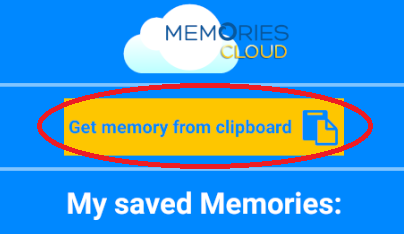
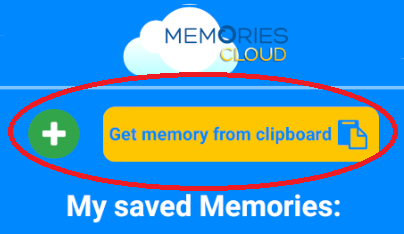
Style Fixes

diff --git a/src/components/Share.js b/src/components/Share.js
@@ -11,7 +11,8 @@ import {
     Image,
     Linking,
     ActivityIndicator,
-    NetInfo
+    NetInfo,
+    Keyboard
 } from 'react-native'
 
 import * as firebase from 'firebase'
@@ -132,7 +133,7 @@ class NewMemory extends Component {
                             }
                             
                             this.state.value ? FirebaseHelpers.setMemory(this.state.uid, memory) : null              
-                        
+                            Keyboard.dismiss()
                             ShareExtension.close()                        
                         
                         } catch (error){
@@ -183,21 +184,17 @@ class NewMemory extends Component {
                         maxLength = {MAX_TITLE_LENGTH}
                     />
 
-                    <View style={styles.memoryTextContainer}>
-                        <ScrollView horizontal>
-                            <TextInput 
-                                editable = {true} 
-                                selectionColor="#449DEF"
-                                underlineColorAndroid='transparent'
-                                placeholderTextColor="grey"
-                                placeholder = "Memory"
-                                style={[styles.memoryText, { width: this.state.width - 30}]}
-                                value = {this.state.value}
-                                onChangeText = {(value) => this.setState({value})}
-                                maxLength = {MAX_MEMORY_LENGTH}
-                            />
-                        </ScrollView>  
-                    </View>
+                    <TextInput 
+                        editable = {true} 
+                        selectionColor="#449DEF"
+                        underlineColorAndroid='transparent'
+                        placeholderTextColor="grey"
+                        placeholder = "Memory"
+                        style={[styles.memoryTextContainer, { width: this.state.width - 20}]}
+                        value = {this.state.value}
+                        onChangeText = {(value) => this.setState({value})}
+                        maxLength = {MAX_MEMORY_LENGTH}
+                    />
 
                     <TouchableHighlight
                         onPress={() => this.save()}
@@ -224,7 +221,7 @@ class NewMemory extends Component {
                     
                     <View style={styles.logoContainer}>
                         <Image style={styles.logo} source={require('../images/logo.png')}/>
-                        <Text style={styles.text}>You need a loged account in Memories Cloud to save your data, login or register now free!</Text>
+                        <Text style={styles.text}>You need a loged account in Memories Cloud to save your data, login or register now free.</Text>
                     </View>    
 
                     <View style={styles.buttonContainer}>
@@ -288,14 +285,12 @@ const styles = StyleSheet.create({
         fontWeight: 'bold'
     },
     memoryTextContainer: {
+        color: '#0088ff',
         borderWidth: 1,
         borderColor: 'white',
         borderRadius: 10,
         backgroundColor: 'white',
         marginBottom: 10
-    },
-    memoryText: {
-        color: '#0088ff'
     },
     memoryTitleText: {
         color: 'white',

diff --git a/src/components/NewMemory.js b/src/components/NewMemory.js
@@ -11,7 +11,8 @@ import {
     Image,
     Linking,
     ActivityIndicator,
-    NetInfo
+    NetInfo,
+    Keyboard
 } from 'react-native'
 
 import * as firebase from 'firebase'
@@ -98,7 +99,7 @@ class NewMemory extends Component {
                             }
 
                             this.state.value ? FirebaseHelpers.setMemory(this.state.uid, memory) : null                
-                            
+                            Keyboard.dismiss()
                             this.props.navigation.navigate("Home")  
 
                         } else {
@@ -140,22 +141,18 @@ class NewMemory extends Component {
                     onChangeText = {(title) => this.setState({title})}
                     maxLength = {MAX_TITLE_LENGTH}
                 />
-
-                <View style={styles.memoryTextContainer}>
-                    <ScrollView horizontal>
-                        <TextInput 
-                            editable = {true} 
-                            selectionColor="#449DEF"
-                            underlineColorAndroid='transparent'
-                            placeholderTextColor="grey"
-                            placeholder = "Memory"
-                            style={[styles.memoryText, { width: this.state.width - 30}]}
-                            value = {this.state.value}
-                            onChangeText = {(value) => this.setState({value})}
-                            maxLength = {MAX_MEMORY_LENGTH}
-                        />
-                    </ScrollView>  
-                </View>
+                
+                <TextInput 
+                    editable = {true} 
+                    selectionColor="#449DEF"
+                    underlineColorAndroid='transparent'
+                    placeholderTextColor="grey"
+                    placeholder = "Memory"
+                    style={[styles.memoryTextContainer, { width: this.state.width - 20}]}
+                    value = {this.state.value}
+                    onChangeText = {(value) => this.setState({value})}
+                    maxLength = {MAX_MEMORY_LENGTH}
+                />   
 
                 <TouchableHighlight
                     onPress={() => this.save()}
@@ -218,14 +215,12 @@ const styles = StyleSheet.create({
         marginBottom: 10
     },
     memoryTextContainer: {
+        color: '#0088ff',
         borderWidth: 1,
         borderColor: 'white',
         borderRadius: 10,
         backgroundColor: 'white',
         marginBottom: 10
-    },
-    memoryText: {
-        color: '#0088ff',
     },
     memoryTitleText: {
         color: 'white',
@@ -234,7 +229,7 @@ const styles = StyleSheet.create({
         fontSize: 18,
         fontWeight: 'bold',
         borderColor: 'rgba(255, 255, 255, .5)',
-        borderBottomWidth: 2
+        borderBottomWidth: 2,
     },
     titleText: {
       textAlign: 'center',

diff --git a/src/components/Help.js b/src/components/Help.js
@@ -31,15 +31,15 @@ class Help extends Component {
                     
                     <ScrollView contentContainerStyle={{flexGrow: 1, justifyContent : 'center'}}>
                         <View style={styles.scrollHelp}>
-                            <Text style={styles.text}>Lost? Dont worry! You can easily add memories to this app with the next steps!</Text>
+                            <Text style={styles.text}>Lost? Dont worry! You can easily add memories to this app with the next steps.</Text>
                             <Text style={styles.text}>First, you can select a URL pressing it from any web browser like this image:</Text>
                             <Image style={styles.image} source={require('../images/share1.png')}/>
                             <Text style={styles.text}>Or any text in a web like that:</Text>
                             <Image style={styles.image} source={require('../images/share2.png')}/>
                             <Text style={styles.text}>Then, press "Share" to show your compatible apps...</Text>
                             <Image style={styles.image} source={require('../images/share3.png')}/>
-                            <Text style={styles.text}>...and voalá! Press in Memories Cloud and save your memory!</Text>
-                            <Text style={styles.text}>Also, you can copy any text in another app and paste it in Memories Cloud with in Home like this image!</Text>
+                            <Text style={styles.text}>...and voalá! Press in Memories Cloud and save your memory.</Text>
+                            <Text style={styles.text}>Also, you can create a new memory or copy any text in another app and paste it in Memories Cloud like this image.</Text>
                             <Image style={styles.image} source={require('../images/share4.png')}/>
                         </View>
                     </ScrollView>

diff --git a/src/components/List.js b/src/components/List.js
@@ -264,7 +264,7 @@ class List extends Component {
                 <View style={[styles.memoryContainer, { width: this.state.width}]}>                                 
 
                     <View style={[styles.memoryTextContainer, { width: this.state.width - (30*3 + 55) }]}>
-                        {item.title &&
+                        {item.title && 
                             <TextInput editable = {false} style={styles.memoryTitle}>{item.title}</TextInput>
                         }                        
                         <ScrollView style={styles.memoryTextScrollView} horizontal>     
@@ -366,7 +366,7 @@ class List extends Component {
                     </ScrollView>
                     :
                     <View style={styles.noMemoriesContainer}> 
-                        <Text style={styles.noMemoriesText}>You can add a memory easily with the clipboard, or the "Share Tool", selecting any text in your device and pressing Share with Memories Cloud!</Text>
+                        <Text style={styles.noMemoriesText}>You can add a memory easily with the clipboard, or the "Share Tool", selecting any text in your device and pressing Share with Memories Cloud.</Text>
                         <TouchableWithoutFeedback 
                             onPress={() => this.props.navigation.navigate("Help")}
                         >
@@ -520,7 +520,7 @@ const styles = StyleSheet.create({
         marginBottom: 10,
         marginRight: 10,
         paddingHorizontal: 7,
-        paddingVertical: 3.5,
+        paddingVertical: 3,
         borderRadius: 200
     },
     copyMemoryFromClipboardButton: {
@@ -539,7 +539,7 @@ const styles = StyleSheet.create({
         marginTop: 7
     },
     plusIcon: {
-        marginTop: 5,
+        marginTop: 6,
         marginBottom: 5,
         marginRight: 5,
         marginLeft: 5

diff --git a/src/components/Register.js b/src/components/Register.js
@@ -82,7 +82,7 @@ class Register extends Component {
                 
                 <View style={styles.logoContainer}>
                     <Image style={styles.logo} source={require('../images/logo.png')}/>
-                    <Text style={styles.text}>Fill your data to register free!</Text>
+                    <Text style={styles.text}>Fill your data to register free</Text>
                 </View>                
 
                 <View style={styles.inputsContainer}>
